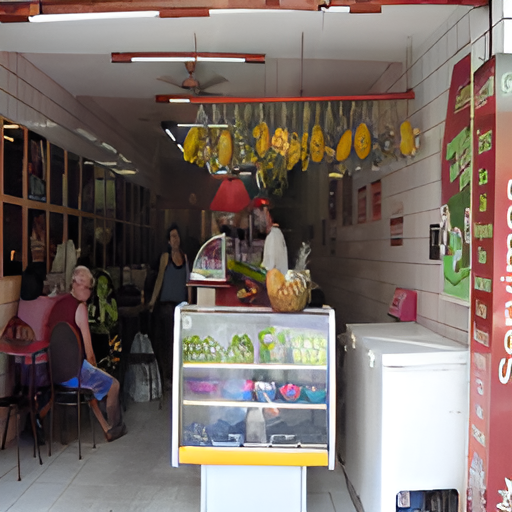
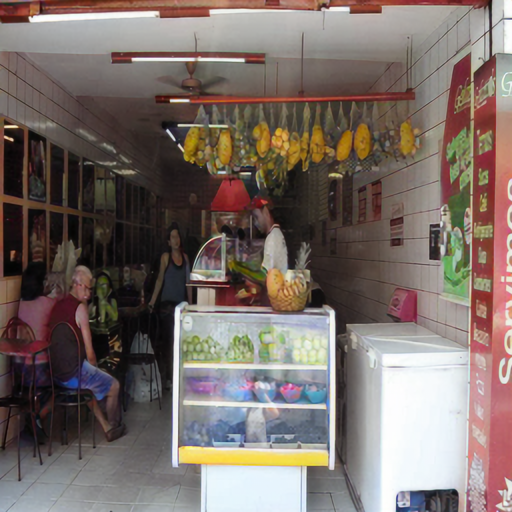
Expand Inha challenge project with presentation evidence and comparisons

diff --git a/_pages/projects/inha-colorization-super-resolution.md b/_pages/projects/inha-colorization-super-resolution.md
@@ -7,62 +7,131 @@ toc: true
 toc_sticky: true
 ---
 
-> [GitHub에서 코드와 노트북 보기 →](https://github.com/SeokHwanHong/Projects/tree/main/inha-colorization-super-resolution)
+[GitHub 코드·실행 안내](https://github.com/SeokHwanHong/Projects/tree/main/inha-colorization-super-resolution)
 
-2025 인하 인공지능 챌린지 대학원 부문에서 수행한 멀티모달 이미지 생성 프로젝트다. 흑백 이미지와 자연어 캡션을 입력받아 색을 입힌 뒤, 초해상도로 세부 질감을 복원했다. 팀은 **대학원 부문 우수상**을 수상했다.
+2025 인하 인공지능 챌린지 대학원 부문에서 흑백 이미지와 자연어 설명을 함께 받아 색채 이미지를 생성한 프로젝트다. 팀명은 **5층**이며, 팀원은 이지호·고영호·박민수·홍석환이다. 팀은 **대학원 부문 우수상**을 수상했다.
 
-## 프로젝트 한눈에 보기
+색채화와 초해상도를 분리하고, L-CAD가 생성한 색채 이미지를 서로 다른 복원 모델로 처리해 대회 점수를 비교했다. 최종적으로 SwinIR 2배 복원을 선택했고, 공개 평가 0.6830과 비공개 평가 0.6925를 기록했다.
 
-| 항목 | 내용 |
+## 1. 프로젝트 배경과 목표
+
+흑백 이미지의 윤곽만으로 원래 색을 하나로 결정하기는 어렵다. 캡션에 색과 객체의 단서가 있으면 이를 함께 읽어야 한다. 예를 들어 발표자료의 캡션에는 노란 간판, 빨간 글씨, 흰 티셔츠, 빨강·흰색·파랑 깃발이 등장한다. 같은 이미지 안에서 각각의 단서를 해당 객체에 연결하는 것이 과제였다.
+
+대회는 생성 이미지가 원본의 색 분포와 비슷한지, 캡션의 의미를 반영하는지를 함께 평가했다.
+
+| 평가 항목 | 의미 | 가중치 |
+| --- | --- | ---: |
+| HSV Similarity | 실제 색채 이미지와 생성 이미지의 HSV 히스토그램 유사도 평균 | 0.6 |
+| CLIP Score | 캡션과 생성 이미지 간 코사인 유사도, ViT-L-14 사용 | 0.4 |
+
+최종 점수는 `0.6 × HSV Similarity + 0.4 × CLIP Score`다. 따라서 선명해 보이는 출력만으로 모델을 선택할 수 없었다. 색 분포와 텍스트 정합성을 포함한 최종 대회 점수를 확인해야 했다.
+
+## 2. 데이터와 실험 범위
+
+| 구분 | 수량 | 구성 |
+| --- | ---: | --- |
+| 학습 자료 | 65,260장 | 흑백 입력, 정답 색채 이미지, 이미지 경로와 캡션 |
+| 평가 자료 | 200장 | 흑백 입력, 캡션, 샘플 ID |
+| 입력 해상도 | 512×512 | 색채화 단계에서 256×256으로 축소 |
+| 최종 파이프라인 출력 | 512×512 | SwinIR 2배 복원 결과 |
+
+학습 자료가 제공됐지만 이번 프로젝트는 **사전학습 모델의 추론만 수행**했다. 65,260장으로 모델을 재학습한 결과로 해석하면 안 된다. 실험의 초점은 색채화 모델과 복원 모델을 연결하고, 후보 조합의 출력과 제출 점수를 비교하는 데 있었다.
+
+## 3. 기준 접근과 두 단계 파이프라인
+
+### Canny·ControlNet·Stable Diffusion 기준 접근
+
+발표자료의 기준 접근은 흑백 이미지에서 Canny edge를 추출하고, ControlNet으로 구조 조건을 전달하며, 캡션을 함께 입력하는 Stable Diffusion 추론이다. VAE가 이미지와 잠재 표현을 연결하고, 역확산 과정에서 색채 출력을 생성한다.
+
+발표자료에 기록된 기준 설정은 `guidance scale = 7.5`, `inference steps = 50`이다. 이는 **기준 접근의 설정**이며, 저장소에 포함되지 않은 L-CAD 실행의 설정값으로 간주하지 않는다. 기준 접근의 별도 점수가 자료에 없으므로 최종 방식과의 개선 폭은 계산할 수 없다.
+
+### L-CAD 색채화와 SwinIR 복원
+
+최종 처리 순서는 다음과 같다.
+
+1. 512×512 흑백 이미지를 256×256으로 축소한다.
+2. L-CAD에 흑백 이미지와 캡션을 입력해 256×256 색채 이미지를 만든다.
+3. SwinIR로 2배 복원해 512×512 출력을 얻는다.
+4. 평가 ID에 맞춘 이미지와 CLIP 임베딩 CSV를 함께 압축한다.
+
+L-CAD는 자연어 설명의 정보량이 서로 다른 상황을 다루는 색채화 모델이다. 논문은 사전학습 생성 모델의 색채 사전정보와 언어 이해를 활용하고, 입력의 국소 구조를 보존하는 모듈 및 객체를 고려한 샘플링을 제안한다. 이 프로젝트에서는 사전학습 모델을 추론에 사용했다. [L-CAD 논문](https://arxiv.org/abs/2305.15217)
+
+발표자료에는 128×128과 256×256 색채화 출력이 함께 제시돼 있다. 두 결과는 해상도 선택 과정을 보여주는 정성적 예시이며, 해상도별 점수나 처리 시간은 기록돼 있지 않다.
+
+![L-CAD 128×128 색채화 결과](/images/projects/inha-ai-challenge/lcad-128.png)
+
+*발표자료 15쪽의 128×128 색채화 출력*
+
+![L-CAD 256×256 색채화 결과](/images/projects/inha-ai-challenge/lcad-256.png)
+
+*발표자료 15쪽의 256×256 색채화 출력. 최종 파이프라인은 256×256 색채화 결과를 복원한다.*
+
+## 4. 초해상도 후보 비교와 선택
+
+색채화 이후 Real-ESRGAN, SwinIR, ResShift를 비교했다. Real-ESRGAN은 GAN 기반 복원 모델이고, SwinIR은 Swin Transformer 기반 복원 모델이다. ResShift는 잔차 이동을 사용하는 확산 기반 초해상도 모델이다.
+
+| 모델 | 발표자료의 배율 | 공개 평가 | 비공개 평가 |
+| --- | ---: | ---: | ---: |
+| Real-ESRGAN | 2배 | 0.6700 | 미기록 |
+| **SwinIR** | **2배** | **0.6830** | **0.6925** |
+| ResShift | 4배 | 0.6652 | 미기록 |
+
+SwinIR의 공개 점수는 Real-ESRGAN보다 0.0130, ResShift보다 0.0178 높았다. **이번에 제출한 후보 중 가장 높은 공개 점수를 기록한 조합**을 선택했다는 의미다. 배율이 다른 ResShift까지 포함돼 있어 동일 조건에서 모델 자체의 우열을 입증한 비교로 볼 수는 없다. 비공개 점수도 SwinIR만 기록돼 있다.
+
+발표자료의 이미지 비교는 아래와 같다. 각 이미지는 원본 비율을 유지하며, 클릭하면 큰 이미지로 확인할 수 있다.
+
+[![Real-ESRGAN 복원 출력](/images/projects/inha-ai-challenge/real-esrgan-output.png)](/images/projects/inha-ai-challenge/real-esrgan-output.png)
+
+*Real-ESRGAN 출력, 발표자료 15쪽*
+
+[![SwinIR 복원 출력](/images/projects/inha-ai-challenge/swinir-output.png)](/images/projects/inha-ai-challenge/swinir-output.png)
+
+*SwinIR 출력, 발표자료 15쪽*
+
+[![ResShift 복원 출력](/images/projects/inha-ai-challenge/resshift-output.png)](/images/projects/inha-ai-challenge/resshift-output.png)
+
+*ResShift 출력, 발표자료 15쪽. 실험 설정은 4배이며, 비교 슬라이드에는 512×512로 표시돼 있다. 최종 크기를 맞춘 처리 과정은 제공 코드에 없어 확인할 수 없다.*
+
+이 예시에서는 간판, 진열대와 작은 물체의 경계·질감을 비교할 수 있다. 다만 한 장의 시각적 차이로 전체 점수 차이의 원인을 단정하지 않는다. HSV와 CLIP의 개별 점수가 없으므로 SwinIR의 이점이 어느 평가 항목에서 발생했는지도 구분할 수 없다.
+
+SwinIR은 얕은 특징 추출, 잔차 Swin Transformer 블록을 통한 깊은 특징 추출, 고품질 이미지 재구성으로 구성된다. 이 구조 설명은 모델의 특징이며, 해당 구조가 이번 점수 차이의 직접 원인이라는 실험적 결론은 아니다. [SwinIR 논문](https://arxiv.org/abs/2108.10257)
+
+## 5. 내가 맡은 작업과 코드로 확인되는 구현
+
+기존 프로젝트 기록에서 정리한 내 역할은 두 단계 파이프라인 결합, 초해상도 후보 탐색·실험, 단계별 출력 비교다. 이번 발표자료는 팀 전체의 결과를 설명하며 개인별 역할 분담을 추가로 명시하지는 않는다.
+
+현재 공개 저장소에는 두 실행 스크립트가 있다.
+
+| 파일 | 구현 |
 | --- | --- |
-| 문제 | 자연어 설명을 반영한 흑백 이미지 색채화와 초해상도 복원 |
-| 학습·평가 데이터 | 학습용 65,260장, 평가용 200장 |
-| 평가식 | `0.6 × HSV Similarity + 0.4 × CLIP Score` |
-| 최종 파이프라인 | L-CAD 색채화 → SwinIR 2× 초해상도 → 제출 파일 생성 |
-| 비교 모델 | Real-ESRGAN, SwinIR, ResShift |
-| 성과 | SwinIR: 공개 평가 0.6830 / 비공개 평가 **0.6925**, 대학원 부문 우수상 |
+| `src/swinir.py` | 사전학습 SwinIR 가중치 로드, RGB 변환, 2배 추론, 이미지 저장 |
+| `src/submission.py` | ID 순서대로 이미지 읽기, CLIP 이미지 임베딩 정규화, CSV 저장, 폴더 압축 |
 
-## 1. 색을 채우는 문제이자, 문장을 이해하는 문제
+SwinIR은 `upscale=2`, `window_size=8`, `embed_dim=180`으로 생성하며 `001_classicalSR_DF2K_s64w8_SwinIR-M_x2.pth`를 사용한다. 모델을 평가 모드로 전환하고 기울기 계산 없이 추론한 뒤, 출력을 0~1 범위로 제한해 저장한다. 코드에 `.cuda()`가 직접 지정돼 있어 이 단계에는 CUDA 사용 환경이 필요하다.
 
-입력은 512×512 흑백 이미지와 캡션이다. 단순히 자연스러운 색을 채우는 것만으로는 충분하지 않았다. 평가지표에는 실제 이미지와의 HSV 히스토그램 유사도뿐 아니라, 생성 이미지가 캡션과 얼마나 잘 맞는지를 보는 CLIP 점수도 포함됐다.
+제출 스크립트는 `test.csv`의 `ID` 순서를 따라 `{ID}.png`를 읽는다. OpenCLIP의 `ViT-L-14`, `pretrained="openai"` 모델로 이미지 임베딩을 추출하고 벡터의 노름으로 나눠 정규화한다. `ID`와 `vec_0`부터 시작하는 열을 가진 `embed_submission.csv`를 이미지 폴더 안에 저장한 뒤 폴더 전체를 ZIP으로 묶는다. 이 스크립트는 캡션과의 점수를 직접 계산하는 평가기는 아니다.
 
-예를 들어 캡션에 `yellow sign`, `red writing`, `red white and blue flag`처럼 색 단서가 주어졌을 때, 이미지의 어느 객체에 이를 반영할지 판단해야 한다. 그래서 이미지의 윤곽을 보존하면서 텍스트 조건을 반영하는 색채화 모델과, 손실된 고주파 세부 정보를 복원하는 초해상도 모델을 하나의 파이프라인으로 구성했다.
+## 6. 결과 해석과 남은 한계
 
-## 2. 512×512에서 바로 색칠하지 않은 이유
+팀은 대학원 부문 우수상을 수상했고, 최종 SwinIR 조합은 비공개 평가 0.6925를 기록했다. 이 결과는 제공된 사전학습 모델을 조합해 대회 목표에 맞는 출력을 만들고, 비교 결과를 바탕으로 최종 제출을 선택한 경험이다.
 
-기본 접근은 Canny edge와 Stable Diffusion을 이용해 원본 해상도에서 바로 색채화를 수행하는 방식이었다. 그러나 512×512 출력을 직접 만들면 일부 영역에 색이 채워지지 않은 픽셀이 남는 문제가 관찰됐다. 색채화의 일관성을 먼저 확보한 뒤 해상도를 복원하는 편이 낫다고 판단했다.
+발표자료에 기록된 한계와 현재 코드의 범위를 함께 보면 다음 과제가 남는다.
 
-![L-CAD 색채화 뒤 SwinIR로 2배 복원한 이미지 예시](/images/projects/inha-ai-challenge/swinir-output.png)
+- **추론만 수행**: 대회 데이터에 맞춘 재학습이나 미세조정은 하지 않았다.
+- **배율 불일치**: 2배와 4배 설정이 섞여 있다. 입력·출력 해상도와 크기 조정 방식을 통일한 재비교가 필요하다.
+- **전처리·후처리 미탐색**: 추가 처리의 효과를 분리한 실험이 기록돼 있지 않다.
+- **하이퍼파라미터 탐색 부족**: 설정별 성능과 처리 시간 표가 없어 선택의 민감도를 판단하기 어렵다.
+- **재현 자료의 범위**: 공개 저장소에는 L-CAD 추론 스크립트와 나머지 두 복원 모델의 실행 코드가 없다. 의존성 버전도 고정돼 있지 않다.
 
-*색채화 결과를 SwinIR로 2배 복원한 출력 예시*
+다음에는 같은 색채화 출력을 모든 복원 모델에 입력하고 배율·최종 크기를 통일해 비교할 수 있다. 색 단서가 많은 캡션과 적은 캡션을 나누고, HSV·CLIP 점수를 각각 기록하면 어느 단계에서 문제가 생겼는지 더 구체적으로 해석할 수 있다. 이는 이번에 수행한 결과가 아니라 후속 실험 제안이다.
 
-이에 따라 처리 순서를 다음처럼 나눴다.
+## 7. 실행 안내와 참고 자료
 
-1. **해상도 축소**: 512×512 입력을 256×256으로 축소해 색채화 모델이 일관된 색 분포를 만들도록 했다.
-2. **텍스트 조건 색채화**: L-CAD에 저해상도 흑백 이미지와 캡션을 입력해 색채 이미지를 생성했다.
-3. **2배 초해상도**: 색채화된 256×256 이미지를 SwinIR로 512×512까지 복원했다.
-4. **제출 형식 변환**: 파일명과 테스트 ID를 맞춰 제출 형식을 생성했다.
+가중치 경로, 실행 명령, 제출 전 확인 사항은 [프로젝트 README](https://github.com/SeokHwanHong/Projects/tree/main/inha-colorization-super-resolution)에 정리했다. 현재 공개 코드는 준비된 색채화 이미지를 받아 초해상도와 제출 파일 생성까지 수행한다.
 
-L-CAD는 휘도(luminance) 정보와 텍스트 조건을 잠재 공간(latent space)에 함께 반영하는 diffusion 기반 색채화 모델이다. 이 프로젝트에서는 모델을 새로 학습하지 않고 추론 중심으로 사용했다. 따라서 "색을 잘 입히는가"와 "업스케일링이 색채화 결과를 훼손하지 않는가"를 분리해 확인하는 것이 특히 중요했다.
+본문의 데이터 구성, 기준 설정, 해상도 비교, 점수와 한계는 팀 발표자료 **「25인챌정리본」 3~17쪽**을 바탕으로 정리했다. 역할과 수상 내역은 기존 프로젝트 기록을 유지했고, 구현 내용은 현재 공개된 두 스크립트와 대조했다.
 
-## 3. 초해상도 모델은 결과의 마지막 품질을 좌우했다
-
-색채화 뒤에는 서로 다른 복원 방식의 세 모델을 비교했다.
-
-| 모델 | 접근 | 공개 평가 | 비공개 평가 |
-| --- | --- | ---: | ---: |
-| Real-ESRGAN | GAN 기반 실사 복원 | 0.6700 | - |
-| **SwinIR** | Swin Transformer 기반 이미지 복원 | **0.6830** | **0.6925** |
-| ResShift | 잔차 이동 기반 diffusion 초해상도 | 0.6652 | - |
-
-SwinIR을 선택한 이유는 점수뿐 아니라, Transformer의 window attention이 이미지 전역 문맥과 국소 질감을 함께 복원하는 방식이 이 파이프라인에 잘 맞았기 때문이다. L-CAD가 만든 색의 방향을 크게 흔들지 않으면서 가장자리와 세부 질감을 보완했다.
-
-내가 맡은 역할은 두 단계 파이프라인의 결합, 초해상도 후보 모델 탐색·실험, 단계별 출력 비교였다. 여기서 중요한 판단은 "가장 강한 단일 모델"을 찾는 것보다 앞 단계 출력의 오류를 다음 단계가 어떻게 증폭하거나 완화하는지 확인하는 일이었다.
-
-## 4. 한계와 다음 실험
-
-이번 결과에는 분명한 한계도 있었다. L-CAD와 초해상도 모델을 모두 별도 재학습 없이 추론으로 사용했고, 색채화는 512→256, 초해상도는 256→512으로 수행해 전후 단계의 해상도 조건이 완전히 같지 않았다. 추가 전처리·후처리, guidance scale, 추론 단계 수, 초해상도 설정을 체계적으로 탐색할 여지가 남았다.
-
-다음 실험에서는 색채화 품질과 초해상도 품질을 분리한 검증 세트를 만들고, 캡션 유형별(CLIP 단서가 강한 경우·약한 경우) 오류를 분석하고 싶다. 그래야 전체 점수뿐 아니라 어느 단계에서 오류가 발생하는지 더 명확하게 파악하고 개선할 수 있다.
-
-> 본문은 팀 발표 자료, L-CAD·SwinIR 추론 구성, 대회 제출 결과를 바탕으로 정리했다.
+- [L-CAD 논문](https://arxiv.org/abs/2305.15217), [공식 코드](https://github.com/changzheng123/L-CAD)
+- [Real-ESRGAN 논문](https://arxiv.org/abs/2107.10833), [공식 코드](https://github.com/xinntao/Real-ESRGAN)
+- [SwinIR 논문](https://arxiv.org/abs/2108.10257), [공식 코드](https://github.com/JingyunLiang/SwinIR)
+- [ResShift 논문](https://arxiv.org/abs/2307.12348), [공식 코드](https://github.com/zsyOAOA/ResShift)
